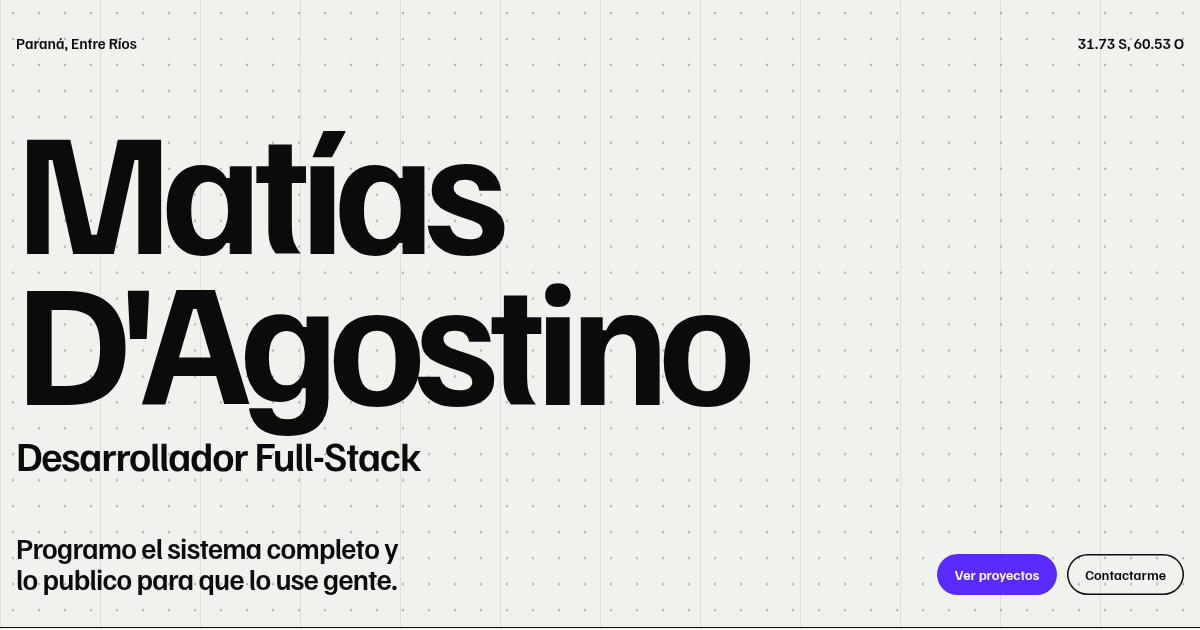
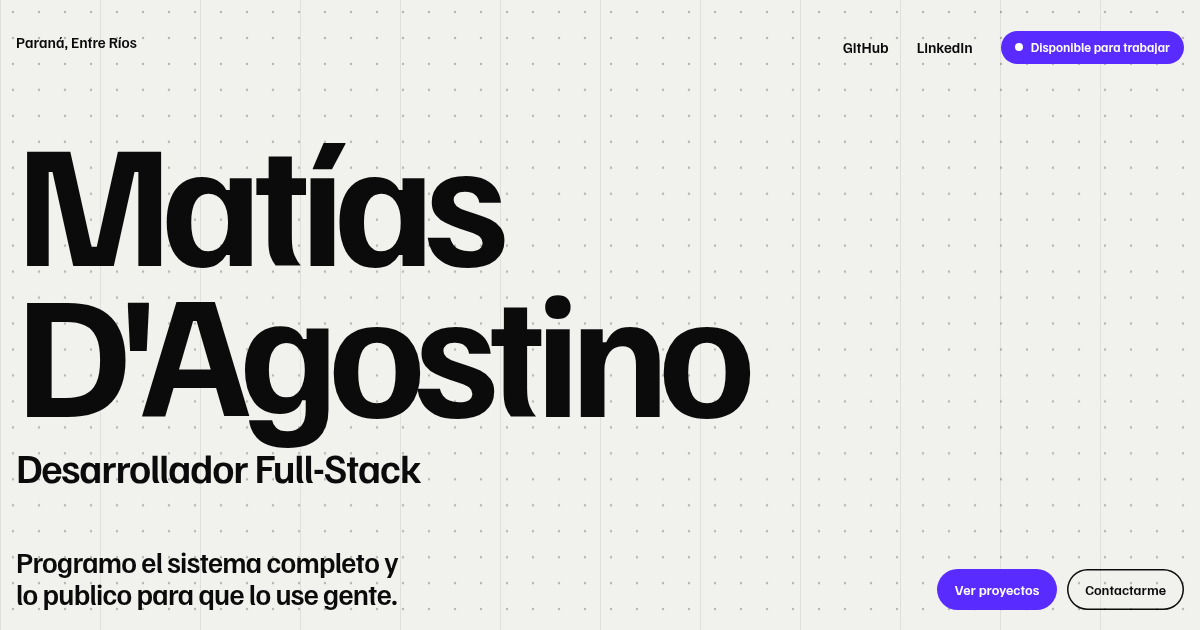
Portada pensada para que te contacten: disponibilidad, GitHub y LinkedIn
- Cartel "Disponible para trabajar" y links a GitHub y LinkedIn en la portada.
- Boton "Contactarme" en la barra, visible cuando se baja de la portada.
- Las coordenadas de Parana pasan al pie.
- Se regenera og.png con la portada nueva.

diff --git a/index.html b/index.html
@@ -63,16 +63,25 @@ section[id]{scroll-margin-top:56px}
 .nav a:hover::after{transform:scaleX(1)}
 .nav .name{transition:opacity .3s}
 body.hero-in .nav .name{opacity:0;pointer-events:none}
+.nav .nav-cta{padding:8px 14px;font-size:13px;transition:opacity .3s,background .2s,color .2s}
+.nav a.chip::after{display:none}
+body.hero-in .nav .nav-cta{opacity:0;pointer-events:none}
 .lang{font:600 13px/1 var(--f);background:transparent;color:var(--ink);box-shadow:inset 0 0 0 1.5px var(--ink);border:0;border-radius:999px;padding:8px 12px;cursor:pointer;transition:background .2s,color .2s}
 .lang:hover{background:var(--ink);color:var(--paper)}
-@media (max-width:620px){.nav .links{font-size:13px}.nav .name{display:none}.nav{justify-content:flex-end}}
+@media (max-width:620px){.nav .links{font-size:13px}.nav .name{display:none}.nav{justify-content:flex-end}.nav .nav-cta{display:none}}
 
 /* hero */
 .hero{position:relative;min-height:clamp(560px,min(62cqw,calc(100svh - 56px)),760px);padding-block:clamp(16px,3cqw,32px);display:flex;flex-direction:column;justify-content:space-between;overflow:hidden;border-bottom:1.5px solid var(--ink);background-image:repeating-linear-gradient(90deg,rgba(11,11,11,.08) 0 1px,transparent 1px calc(100%/12))}
 .hero canvas{position:absolute;inset:0;width:100%;height:100%;pointer-events:none}
 .hero-top,.hero-main,.hero-foot{position:relative}
 .hero-top{display:flex;justify-content:space-between;gap:12px;flex-wrap:wrap;font-weight:600;font-size:clamp(13px,1.5cqw,15px);pointer-events:none}
-.hero-top span:last-child{font-variant-numeric:tabular-nums}
+.hero-links{display:flex;align-items:center;justify-content:flex-end;flex-wrap:wrap;gap:8px clamp(12px,2.4cqw,28px)}
+.hero-links a{pointer-events:auto;text-decoration:none}
+.hero-links a:hover{text-decoration:underline;text-underline-offset:3px}
+.avail{display:inline-flex;align-items:center;gap:8px;background:var(--vio);color:#fff;padding:7px 14px;border-radius:999px;font-weight:600;font-size:13px;pointer-events:none}
+.avail::before{content:"";width:8px;height:8px;border-radius:50%;background:#fff;animation:pulse 2s infinite}
+@keyframes pulse{50%{opacity:.35}}
+@media (prefers-reduced-motion:reduce){.avail::before{animation:none}}
 .hero-main{pointer-events:none}
 .hero h1{margin:0;font-weight:700;font-size:clamp(60px,14.6cqw,230px);line-height:.86;letter-spacing:-.06em}
 .hero .role{margin:clamp(14px,2cqw,26px) 0 0;font-size:clamp(22px,3.4cqw,50px);font-weight:600;letter-spacing:-.03em;line-height:1.05}
@@ -197,13 +206,14 @@ a.chip:not(.line):hover{background:var(--ink)}
       <a href="#proyectos" data-t="nav_proj">Proyectos</a>
       <a href="#stack" data-t="nav_stack">Stack</a>
       <a href="#contacto" data-t="nav_contact">Contacto</a>
+      <a class="chip nav-cta" href="#contacto" data-t="cta_contact">Contactarme</a>
       <button type="button" class="lang" id="lang" aria-label="Switch to English">EN</button>
     </span>
   </nav>
 
   <header class="hero pad" id="hero">
     <canvas id="dots" aria-hidden="true"></canvas>
-    <div class="hero-top"><span>Paraná, Entre Ríos</span><span>31.73 S, 60.53 O</span></div>
+    <div class="hero-top"><span>Paraná, Entre Ríos</span><span class="hero-links"><a href="https://github.com/codewtato" target="_blank" rel="noopener">GitHub</a><a href="https://www.linkedin.com/in/matias-d-agostino-291380357/" target="_blank" rel="noopener">LinkedIn</a><span class="avail" data-t="avail">Disponible para trabajar</span></span></div>
     <div class="hero-main">
       <h1>Matías<br>D'Agostino</h1>
       <p class="role" data-t="role">Desarrollador Full-Stack</p>
@@ -328,7 +338,7 @@ a.chip:not(.line):hover{background:var(--ink)}
     </section>
   </main>
 
-  <footer class="foot pad"><span data-t="foot_role">Matías D'Agostino, Desarrollador Full-Stack</span><span><span data-t="foot_city">Paraná</span> <span id="clock">--:--</span></span></footer>
+  <footer class="foot pad"><span data-t="foot_role">Matías D'Agostino, Desarrollador Full-Stack</span><span><span data-t="foot_city">Paraná</span> 31.73 S, 60.53 O <span id="clock">--:--</span></span></footer>
 </div>
 
 <script>
@@ -348,6 +358,7 @@ a.chip:not(.line):hover{background:var(--ink)}
       vid_alt:"La isla de Teire en el escritorio de Windows, abriéndose y cambiando de pestaña",vid_pause:"Pausar video",vid_play:"Reanudar video",
       s1:"descargas de instaladores en GitHub",s2:"versiones publicadas en 4 semanas",s3:"sistemas: Windows, Linux, Android e iPhone",s4:"publicidad, analíticas o venta de datos",
       role:"Desarrollador Full-Stack",
+      avail:"Disponible para trabajar",
       hero_p:"Programo el sistema completo y lo publico para que lo use gente.",
       feat_h:"Lo que construí en Teire",
       ft1h:"App multiplataforma",ft1p:"Una sola app para Windows, Linux, Android e iPhone, con una isla de escritorio en Windows.",
@@ -384,6 +395,7 @@ a.chip:not(.line):hover{background:var(--ink)}
       vid_alt:"Teire's island on the Windows desktop, opening and switching tabs",vid_pause:"Pause video",vid_play:"Play video",
       s1:"installer downloads on GitHub",s2:"releases shipped in 4 weeks",s3:"systems: Windows, Linux, Android and iPhone",s4:"ads, analytics or data sales",
       role:"Full-Stack Developer",
+      avail:"Available for work",
       hero_p:"I build the whole system and ship it for real people to use.",
       feat_h:"What I built in Teire",
       ft1h:"Cross-platform app",ft1p:"One app for Windows, Linux, Android and iPhone, with a desktop island on Windows.",

diff --git a/source/page.html b/source/page.html
@@ -43,16 +43,25 @@ section[id]{scroll-margin-top:56px}
 .nav a:hover::after{transform:scaleX(1)}
 .nav .name{transition:opacity .3s}
 body.hero-in .nav .name{opacity:0;pointer-events:none}
+.nav .nav-cta{padding:8px 14px;font-size:13px;transition:opacity .3s,background .2s,color .2s}
+.nav a.chip::after{display:none}
+body.hero-in .nav .nav-cta{opacity:0;pointer-events:none}
 .lang{font:600 13px/1 var(--f);background:transparent;color:var(--ink);box-shadow:inset 0 0 0 1.5px var(--ink);border:0;border-radius:999px;padding:8px 12px;cursor:pointer;transition:background .2s,color .2s}
 .lang:hover{background:var(--ink);color:var(--paper)}
-@media (max-width:620px){.nav .links{font-size:13px}.nav .name{display:none}.nav{justify-content:flex-end}}
+@media (max-width:620px){.nav .links{font-size:13px}.nav .name{display:none}.nav{justify-content:flex-end}.nav .nav-cta{display:none}}
 
 /* hero */
 .hero{position:relative;min-height:clamp(560px,min(62cqw,calc(100svh - 56px)),760px);padding-block:clamp(16px,3cqw,32px);display:flex;flex-direction:column;justify-content:space-between;overflow:hidden;border-bottom:1.5px solid var(--ink);background-image:repeating-linear-gradient(90deg,rgba(11,11,11,.08) 0 1px,transparent 1px calc(100%/12))}
 .hero canvas{position:absolute;inset:0;width:100%;height:100%;pointer-events:none}
 .hero-top,.hero-main,.hero-foot{position:relative}
 .hero-top{display:flex;justify-content:space-between;gap:12px;flex-wrap:wrap;font-weight:600;font-size:clamp(13px,1.5cqw,15px);pointer-events:none}
-.hero-top span:last-child{font-variant-numeric:tabular-nums}
+.hero-links{display:flex;align-items:center;justify-content:flex-end;flex-wrap:wrap;gap:8px clamp(12px,2.4cqw,28px)}
+.hero-links a{pointer-events:auto;text-decoration:none}
+.hero-links a:hover{text-decoration:underline;text-underline-offset:3px}
+.avail{display:inline-flex;align-items:center;gap:8px;background:var(--vio);color:#fff;padding:7px 14px;border-radius:999px;font-weight:600;font-size:13px;pointer-events:none}
+.avail::before{content:"";width:8px;height:8px;border-radius:50%;background:#fff;animation:pulse 2s infinite}
+@keyframes pulse{50%{opacity:.35}}
+@media (prefers-reduced-motion:reduce){.avail::before{animation:none}}
 .hero-main{pointer-events:none}
 .hero h1{margin:0;font-weight:700;font-size:clamp(60px,14.6cqw,230px);line-height:.86;letter-spacing:-.06em}
 .hero .role{margin:clamp(14px,2cqw,26px) 0 0;font-size:clamp(22px,3.4cqw,50px);font-weight:600;letter-spacing:-.03em;line-height:1.05}
@@ -177,13 +186,14 @@ a.chip:not(.line):hover{background:var(--ink)}
       <a href="#proyectos" data-t="nav_proj">Proyectos</a>
       <a href="#stack" data-t="nav_stack">Stack</a>
       <a href="#contacto" data-t="nav_contact">Contacto</a>
+      <a class="chip nav-cta" href="#contacto" data-t="cta_contact">Contactarme</a>
       <button type="button" class="lang" id="lang" aria-label="Switch to English">EN</button>
     </span>
   </nav>
 
   <header class="hero pad" id="hero">
     <canvas id="dots" aria-hidden="true"></canvas>
-    <div class="hero-top"><span>Paraná, Entre Ríos</span><span>31.73 S, 60.53 O</span></div>
+    <div class="hero-top"><span>Paraná, Entre Ríos</span><span class="hero-links"><a href="https://github.com/codewtato" target="_blank" rel="noopener">GitHub</a><a href="https://www.linkedin.com/in/matias-d-agostino-291380357/" target="_blank" rel="noopener">LinkedIn</a><span class="avail" data-t="avail">Disponible para trabajar</span></span></div>
     <div class="hero-main">
       <h1>Matías<br>D'Agostino</h1>
       <p class="role" data-t="role">Desarrollador Full-Stack</p>
@@ -308,7 +318,7 @@ a.chip:not(.line):hover{background:var(--ink)}
     </section>
   </main>
 
-  <footer class="foot pad"><span data-t="foot_role">Matías D'Agostino, Desarrollador Full-Stack</span><span><span data-t="foot_city">Paraná</span> <span id="clock">--:--</span></span></footer>
+  <footer class="foot pad"><span data-t="foot_role">Matías D'Agostino, Desarrollador Full-Stack</span><span><span data-t="foot_city">Paraná</span> 31.73 S, 60.53 O <span id="clock">--:--</span></span></footer>
 </div>
 
 <script>
@@ -328,6 +338,7 @@ a.chip:not(.line):hover{background:var(--ink)}
       vid_alt:"La isla de Teire en el escritorio de Windows, abriéndose y cambiando de pestaña",vid_pause:"Pausar video",vid_play:"Reanudar video",
       s1:"descargas de instaladores en GitHub",s2:"versiones publicadas en 4 semanas",s3:"sistemas: Windows, Linux, Android e iPhone",s4:"publicidad, analíticas o venta de datos",
       role:"Desarrollador Full-Stack",
+      avail:"Disponible para trabajar",
       hero_p:"Programo el sistema completo y lo publico para que lo use gente.",
       feat_h:"Lo que construí en Teire",
       ft1h:"App multiplataforma",ft1p:"Una sola app para Windows, Linux, Android e iPhone, con una isla de escritorio en Windows.",
@@ -364,6 +375,7 @@ a.chip:not(.line):hover{background:var(--ink)}
       vid_alt:"Teire's island on the Windows desktop, opening and switching tabs",vid_pause:"Pause video",vid_play:"Play video",
       s1:"installer downloads on GitHub",s2:"releases shipped in 4 weeks",s3:"systems: Windows, Linux, Android and iPhone",s4:"ads, analytics or data sales",
       role:"Full-Stack Developer",
+      avail:"Available for work",
       hero_p:"I build the whole system and ship it for real people to use.",
       feat_h:"What I built in Teire",
       ft1h:"Cross-platform app",ft1p:"One app for Windows, Linux, Android and iPhone, with a desktop island on Windows.",
